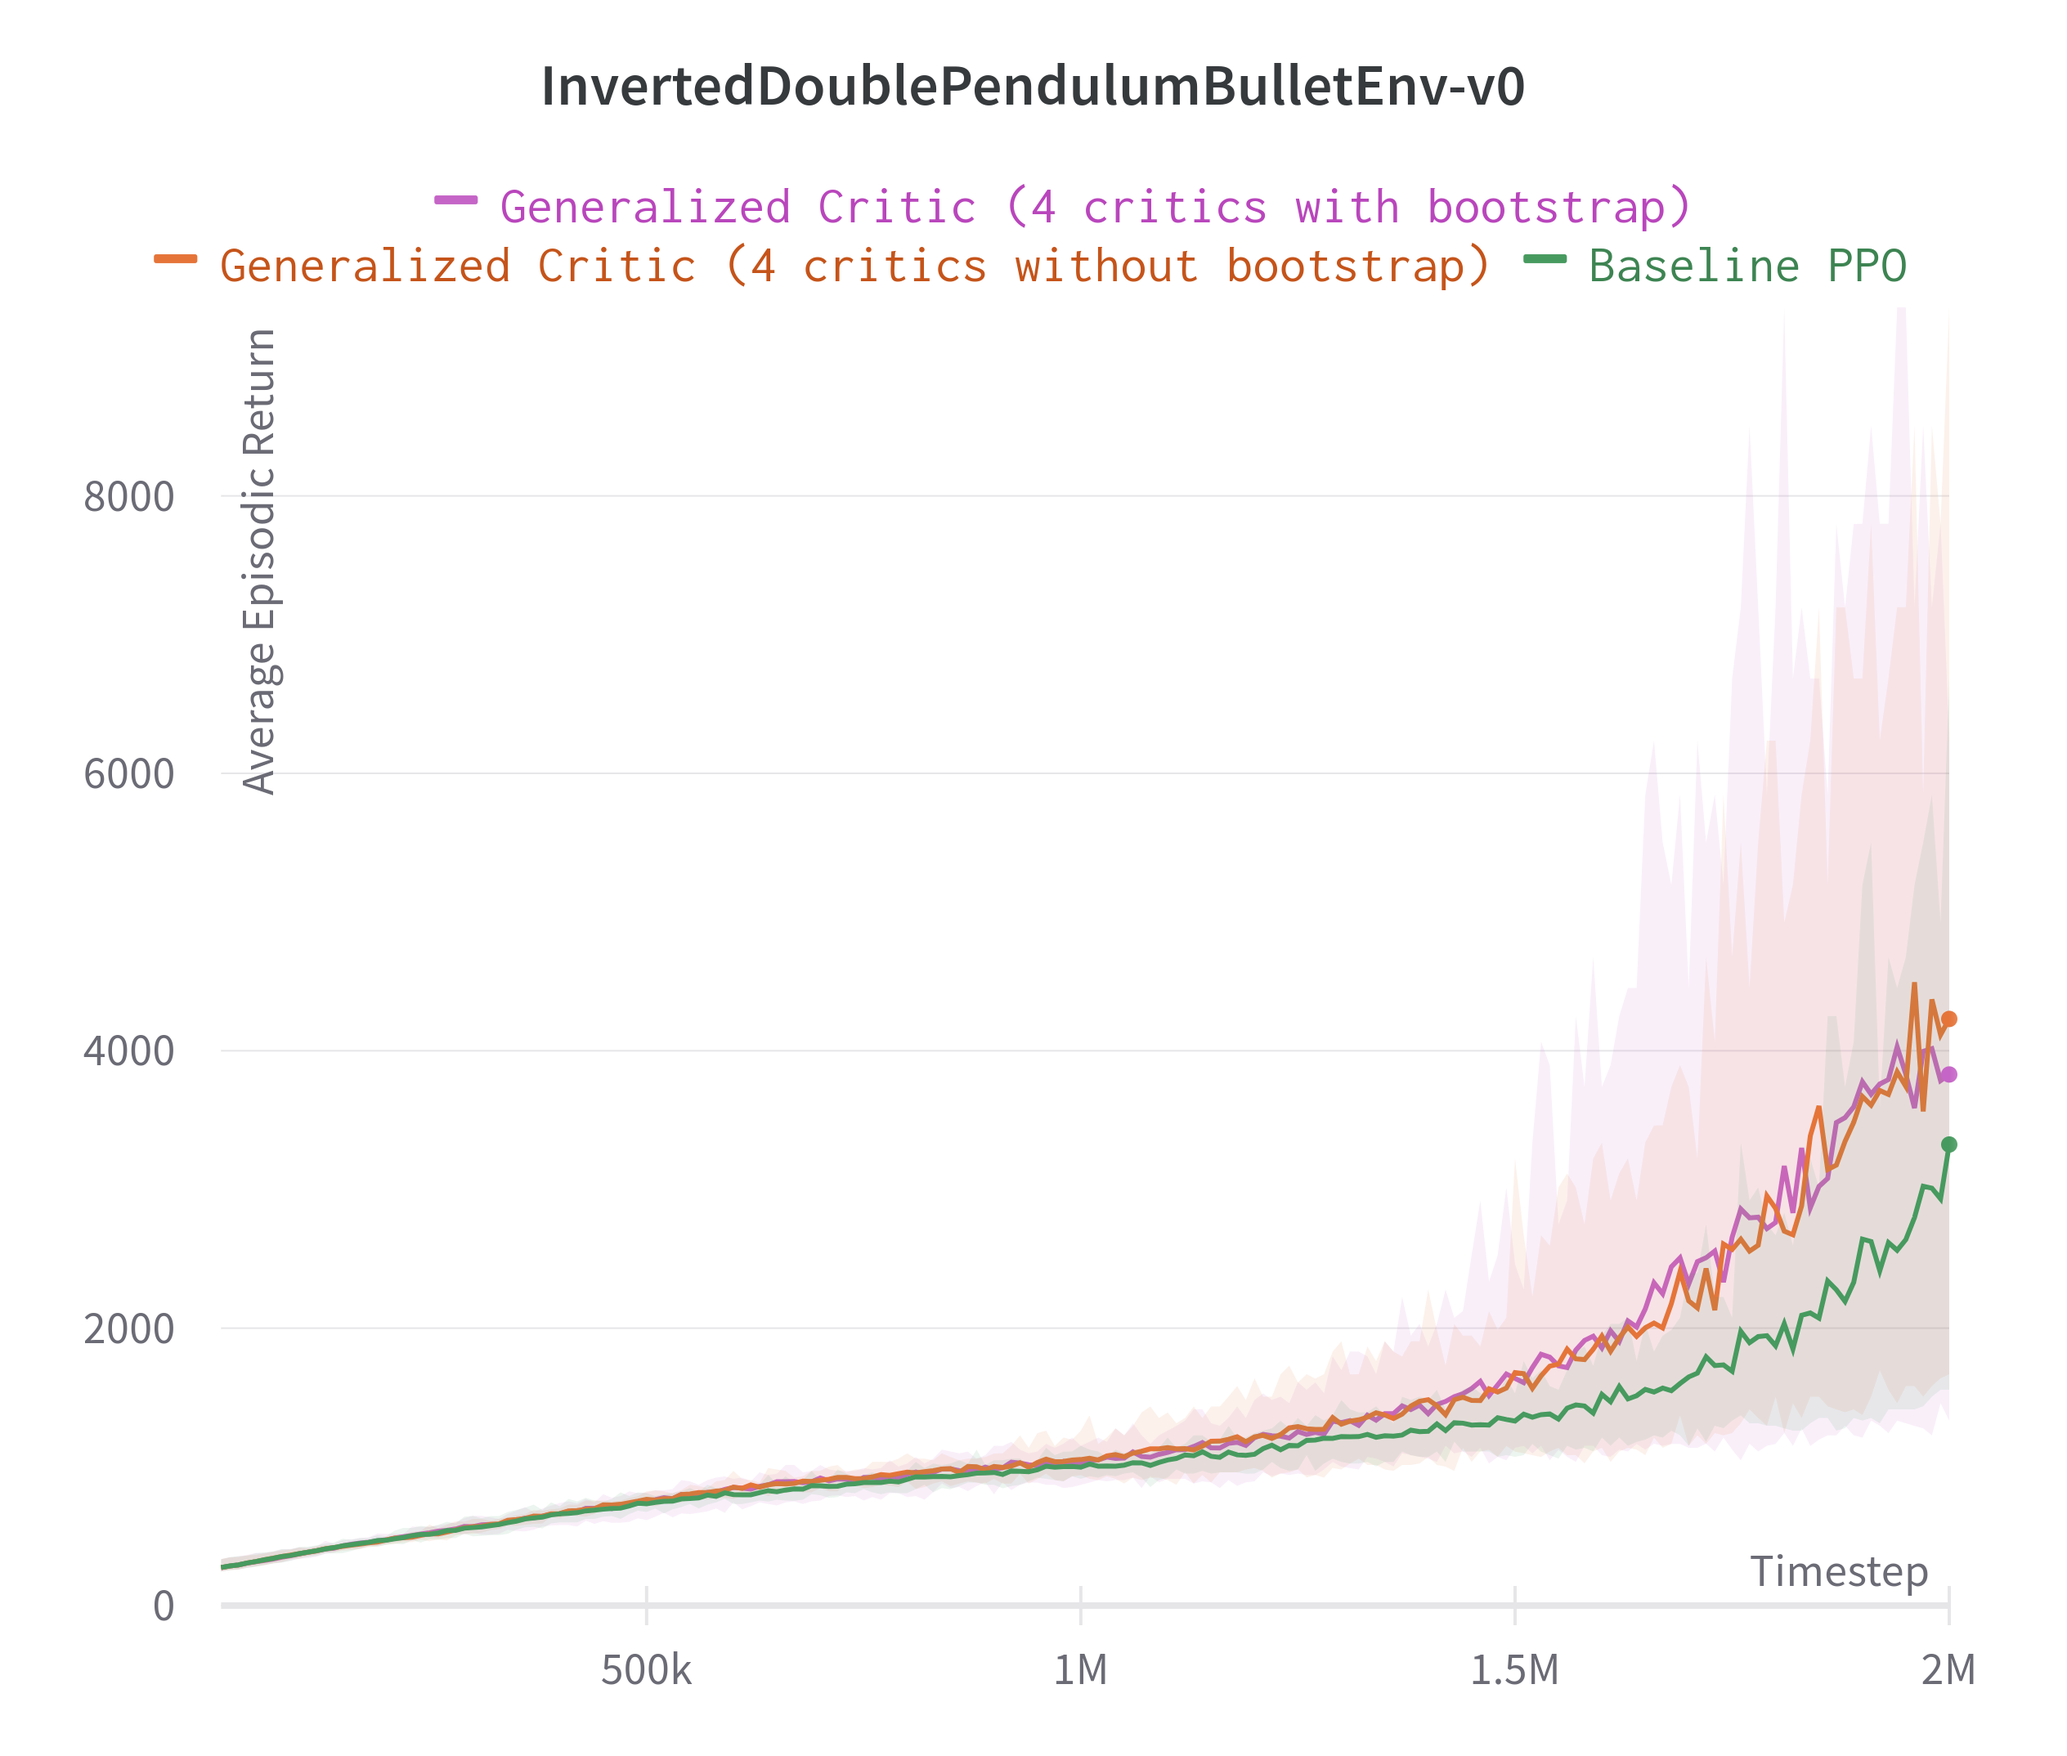
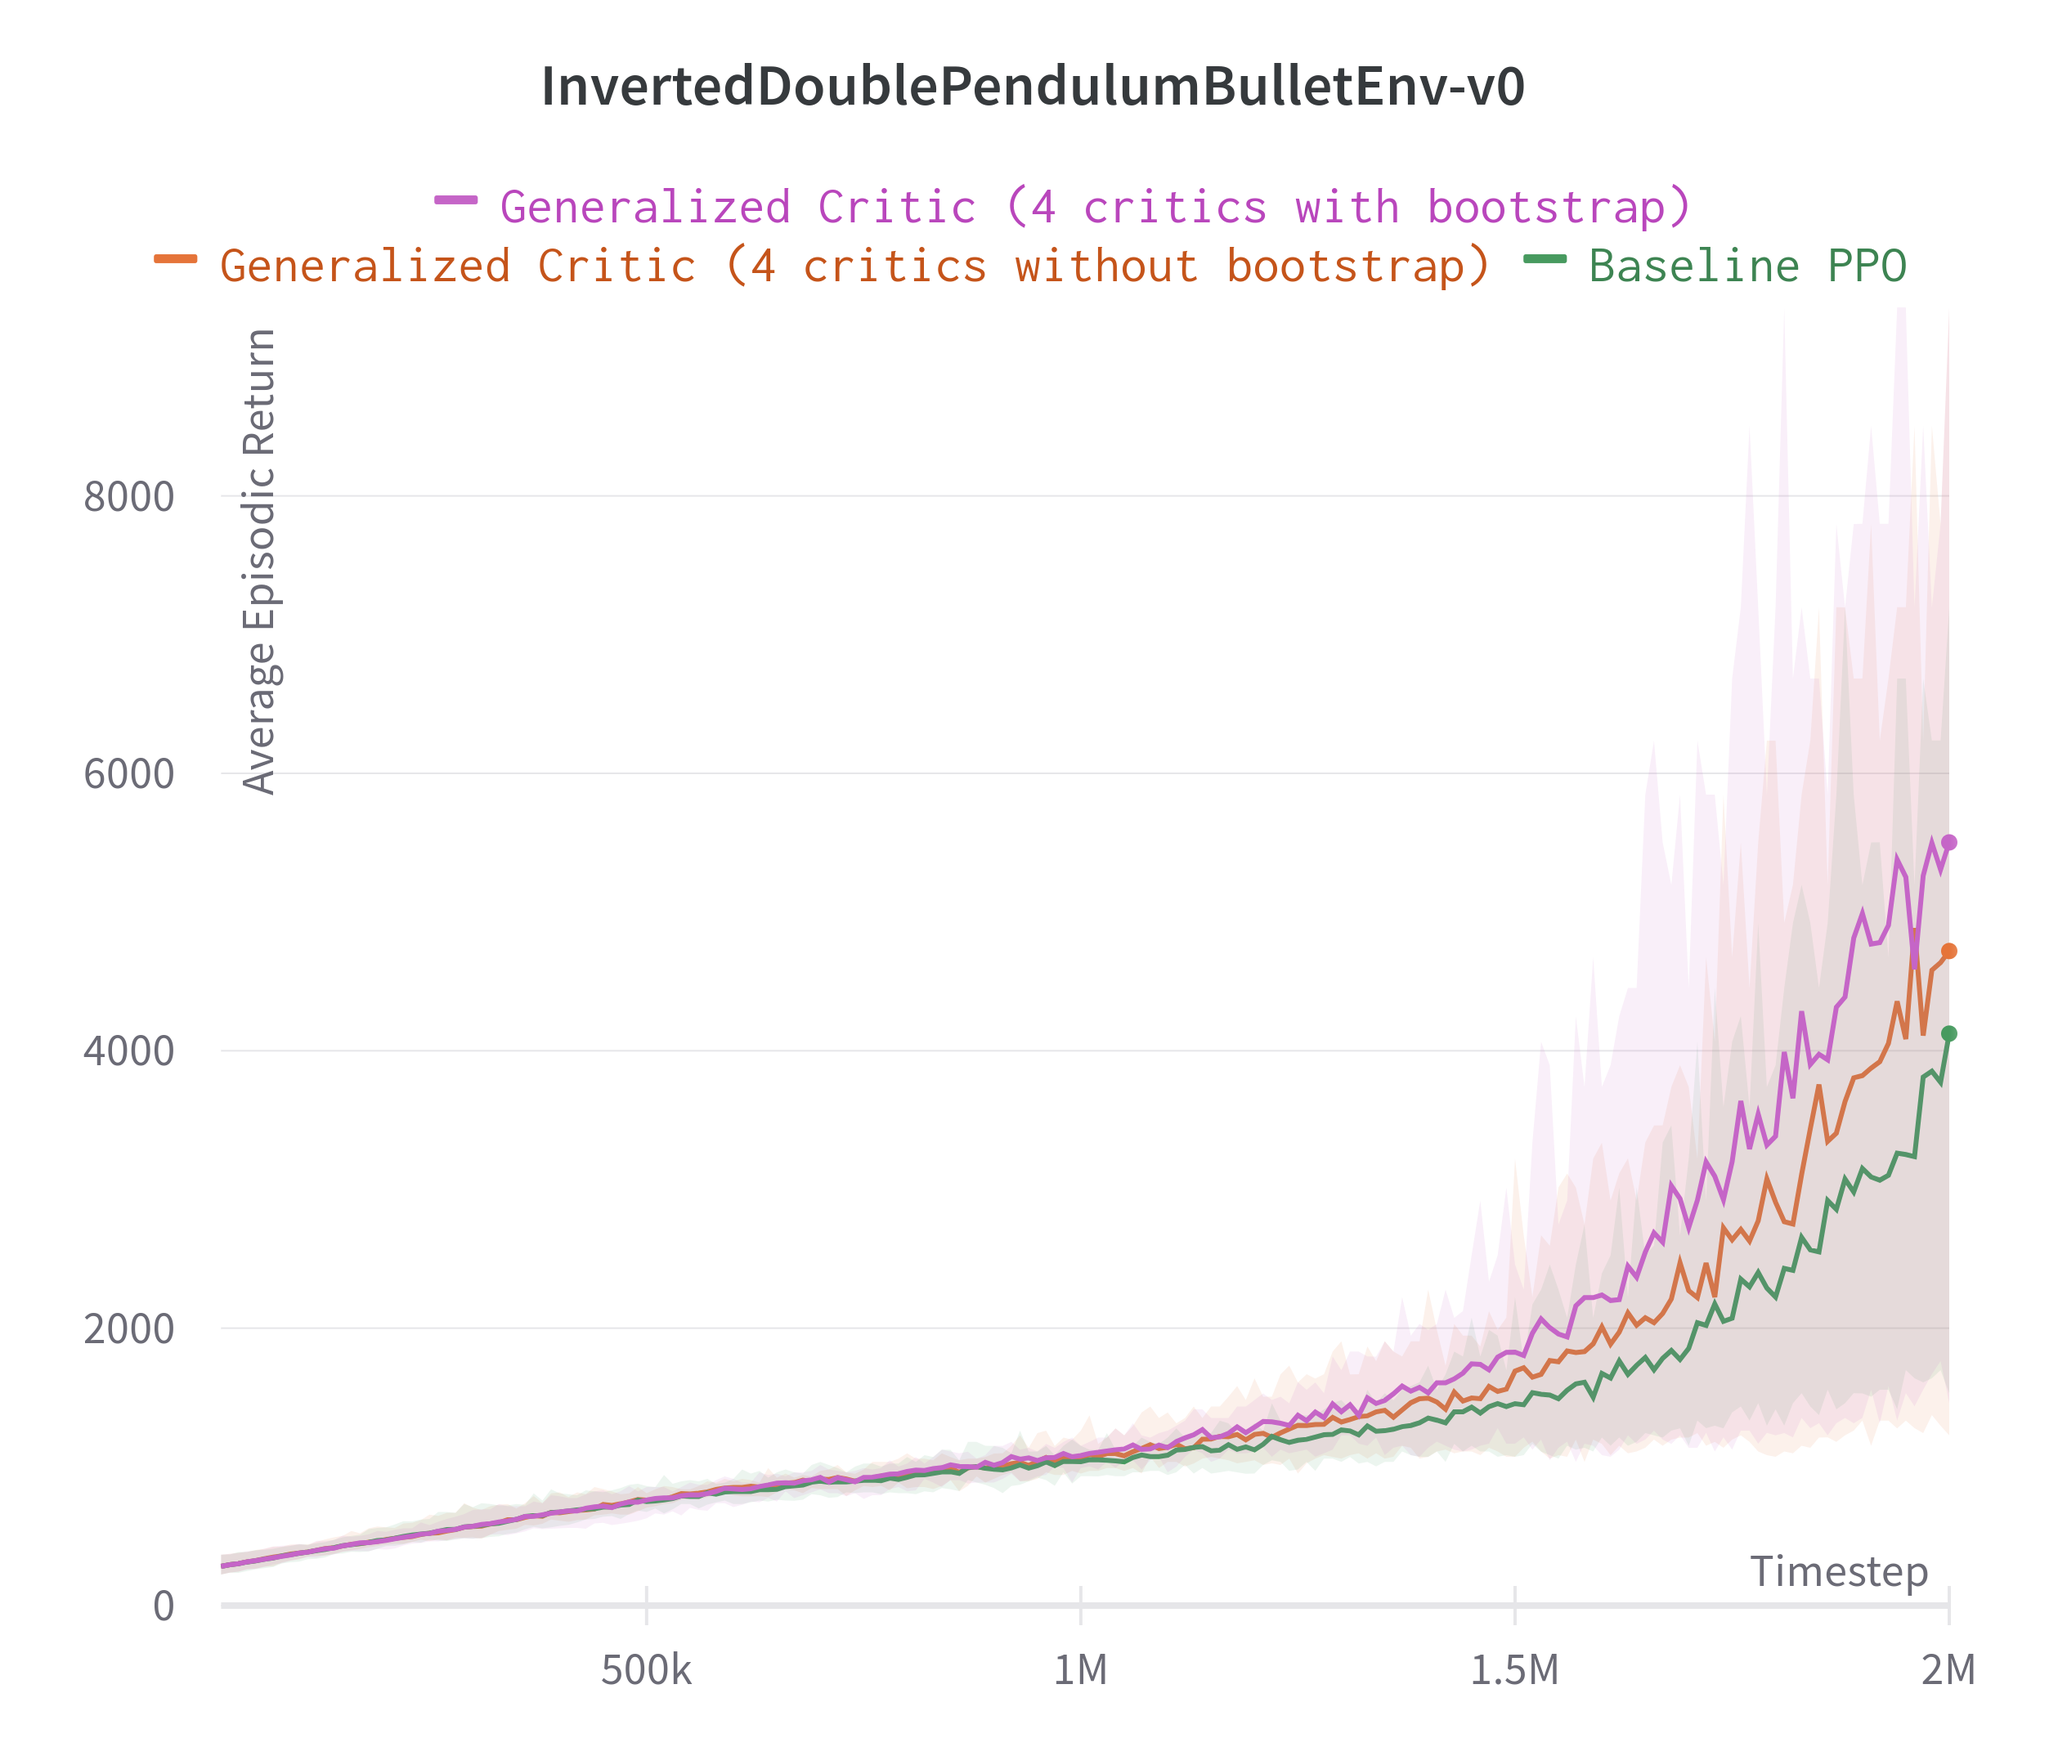
update

Changed region(s): [[0.4375, 0.4679, 0.9688, 0.8422], [0.1875, 0.8422, 0.4062, 0.8734], [0.0938, 0.8734, 0.1875, 0.9046]]

diff --git a/sections/4-experiments.tex b/sections/4-experiments.tex
@@ -71,23 +71,47 @@ The hyperparameters are detailed in table %\ref{hyperparameters}
 
 \subsection{Experimental Results and Analysis}
 
-\begin{tabular}{llll}
+\begin{table}
+  \begin{center}
+\begin{tabular}{p{0.35\textwidth}|p{0.2\textwidth}p{0.2\textwidth}p{0.2\textwidth}}
     \hline
     & Baseline PPO & GC with bootstrap & GC without bootstrap \\
     \hline
-    Inverted Double Pendulum & (1556.141, 6682.396) & (1332.913, 6237.274) & (1667.383, 9358.412) \\
+    Inverted Double Pendulum & (\textbf{1530.122}, 7197.542) & (1458.429, \textbf{9358.719}) & (1227.872, 9358.412) \\
     \hline
-    Half Cheetah & (-1487.176, 484.245) & (-1033.386, 411.735) & (-970.766, 465.321)\\
+    Half Cheetah & (-1487.176, \textbf{484.245}) & (-1033.386, 411.735) & (\textbf{-970.766}, 465.321)\\
     \hline
-    Hopper & (646.152, 901.31) & (748.151, 899.803) & (754.571, 908.167) \\
+    Hopper & (646.152, 901.31) & (748.151, 899.803) & \textbf{(754.571, 908.167)} \\
     \hline
-    Walker 2D & (95.908, 427.7) & (86.125, 656.49) & (204.608, 593.467) \\
+    Walker 2D & (95.908, 427.7) & (86.125, \textbf{656.49}) & (\textbf{204.608}, 593.467) \\
     \hline  
 \end{tabular}
+  \end{center}
+  \caption{Final performance for each training set (min, max)}
+  \label{hyperparameters}
+\end{table}
+
+Different configurations converge better with different random seeds
 
 
 \begin{figure}[!htb]
+\begin{minipage}[b]{.5\linewidth}
+  \centering
+  \centerline{\includegraphics[width=\linewidth]{images/idpseed90}}
+%  \vspace{2.0cm}
+%  \centerline{(a) Walker2DBulletEnv-v0}\medskip
+\end{minipage}
+\begin{minipage}[b]{.5\linewidth}
+  \centering
+  \centerline{\includegraphics[width=\linewidth]{images/idpseed80}}
+%  \vspace{2.0cm}
+%  \centerline{(b) HalfCheetahBulletEnv-v0}\medskip
+\end{minipage}
+  \caption{Two identical runs of InvertedDoublePendulumBulletEnv with different random seeds}
+  \label{seeds}
+\end{figure}
 
+\begin{figure}[!htb]
 \begin{minipage}[b]{.5\linewidth}
   \centering
   \centerline{\includegraphics[width=\linewidth]{images/walker2D}}
